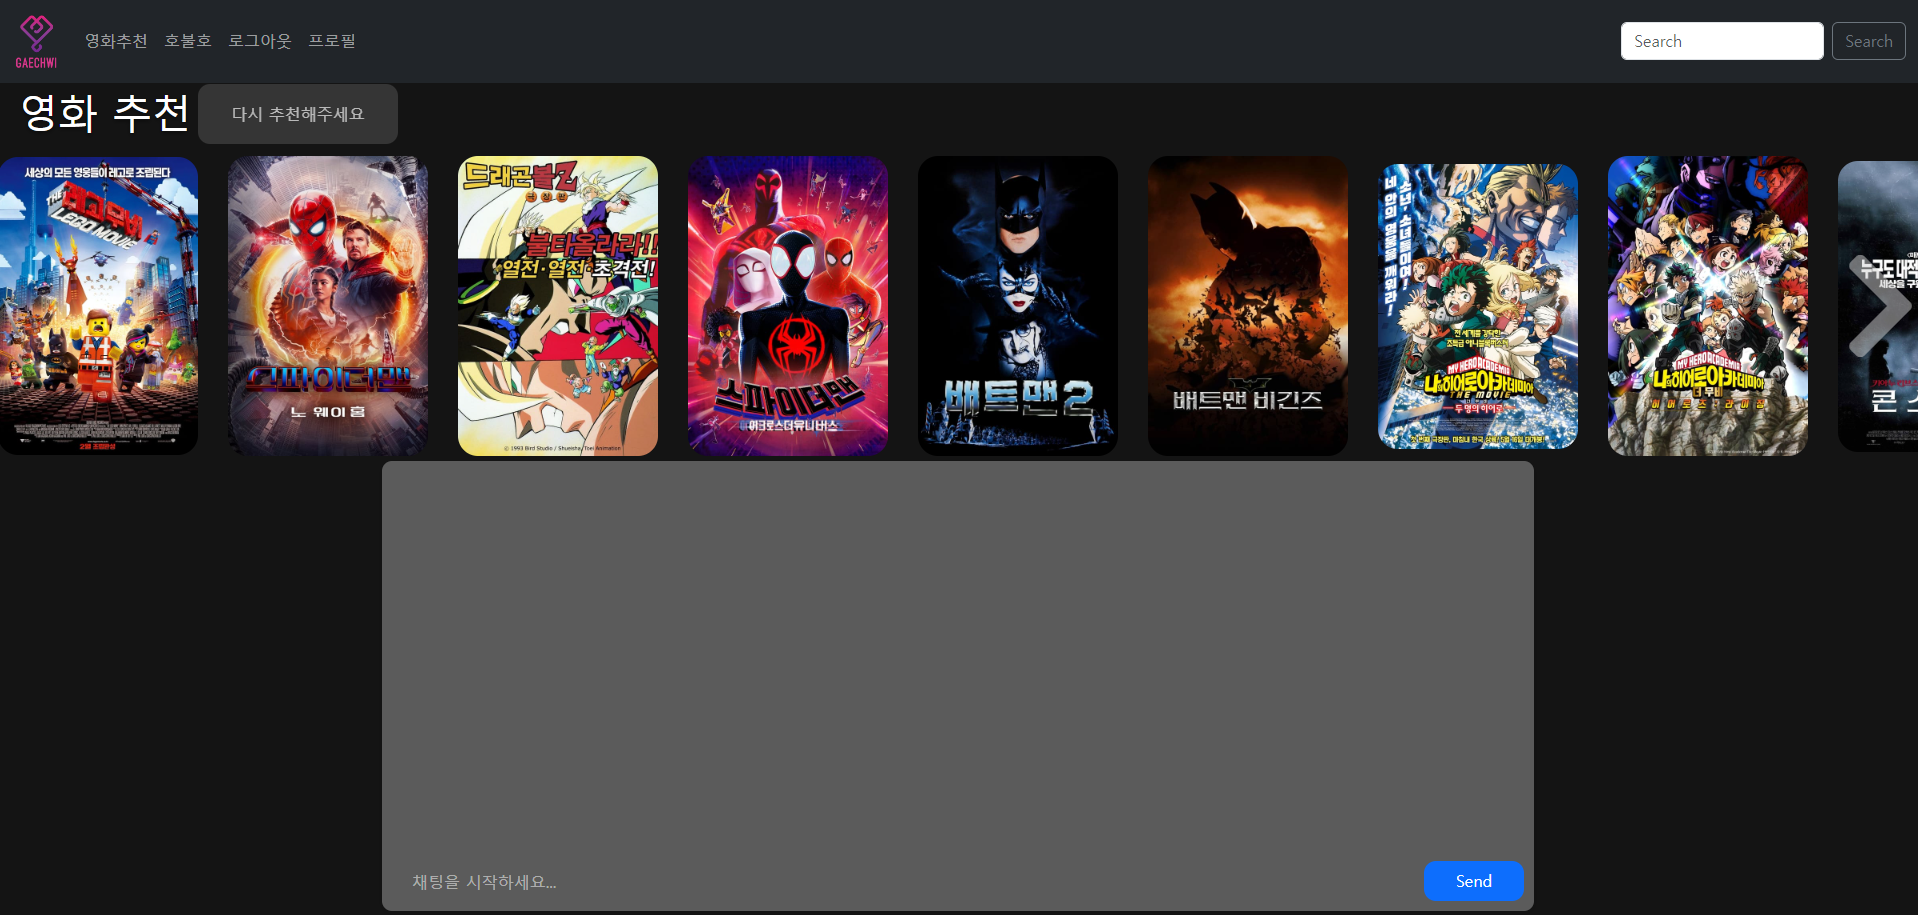
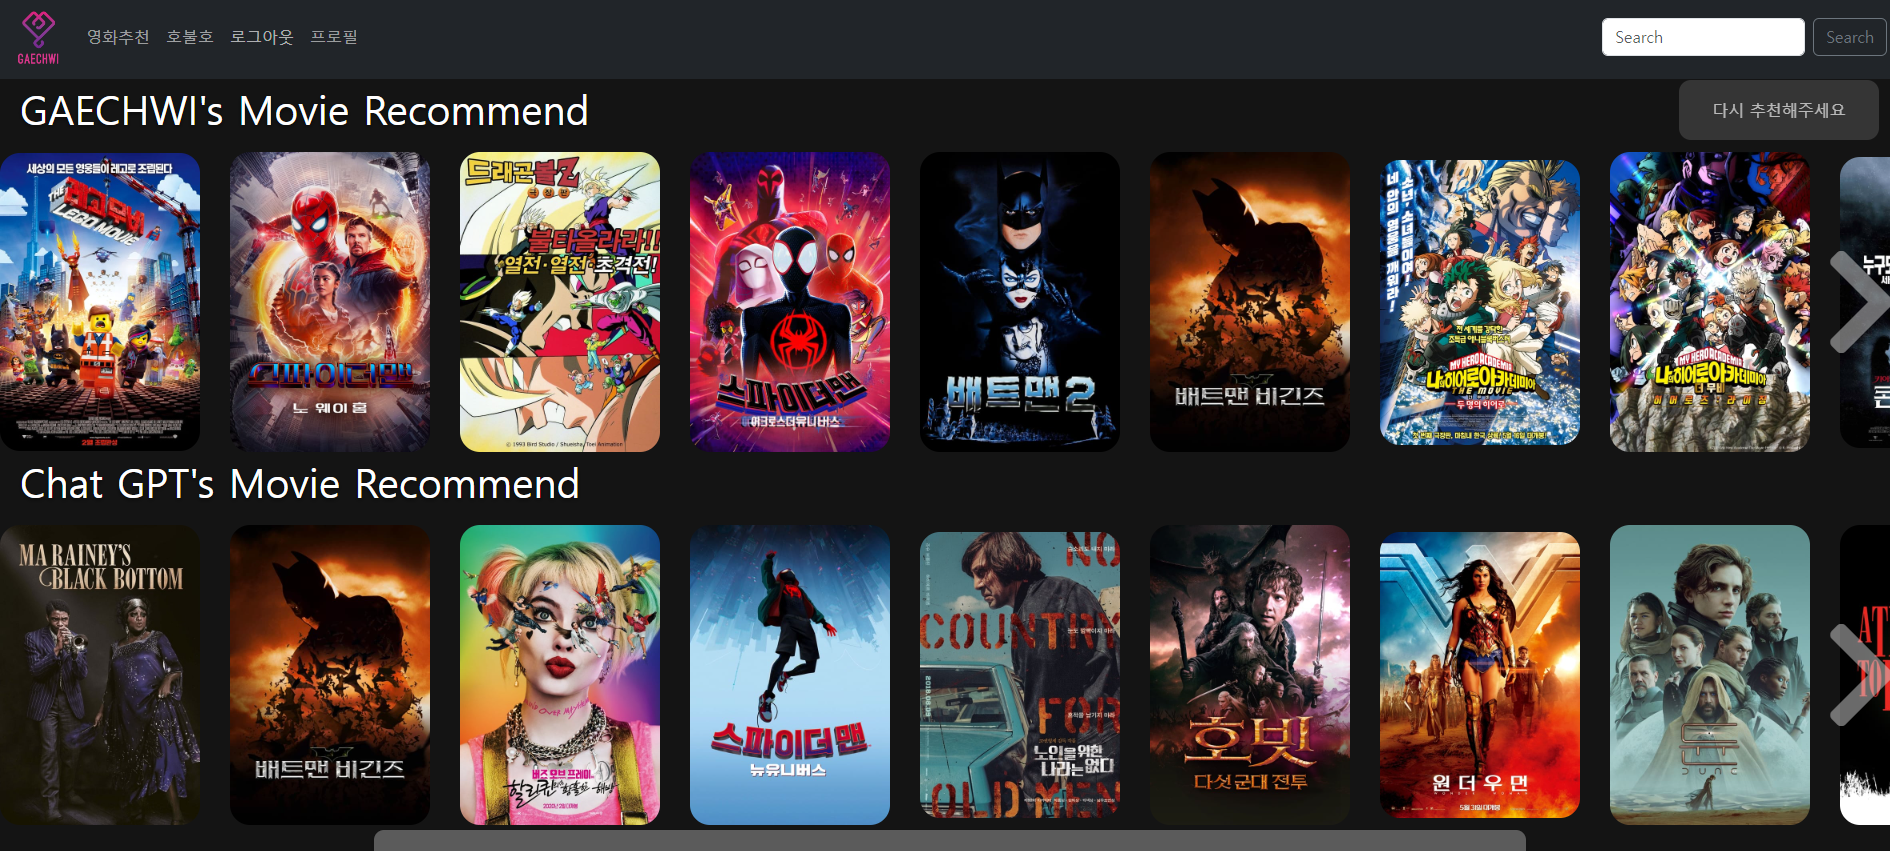
찐찐막

diff --git a/front/src/views/MovieRecommendView.vue b/front/src/views/MovieRecommendView.vue
@@ -1,6 +1,6 @@
 <template>
   <div class="title">
-    <h1>영화 추천</h1>
+    <h1>GAECHWI's Movie Recommend</h1>
   </div>
   <button class="nextpage">다시 추천해주세요</button>
   <div class="movie-container" v-if="movielist.length">
@@ -17,19 +17,19 @@
     </div>
   </div>
   <div class="title">
-    <h1>GPT가 추천해준 영화</h1>
+    <h1>Chat GPT's Movie Recommend</h1>
   </div>
-  <div class="movie-container" v-if="gptlist.length">
-    <div class="movie-list-wrapper">
-      <div class="movie-list">
+  <div class="gpt-movie-container" v-if="gptlist.length">
+    <div class="gpt-movie-list-wrapper">
+      <div class="gpt-movie-list">
         <gptcard
-          class="movie-item"
+          class="gmovie-item"
           v-for="movie in gptlist"
           :key="movie.id"
           :movie="movie"
         />
       </div>
-      <i class="fas fa-chevron-right arrow"></i>
+      <i class="fas fa-chevron-right gpt-arrow"></i>
     </div>
   </div>
   <div class="bubbleContainer">
@@ -39,18 +39,20 @@
           <div class="mychat" v-if="chat.my">{{ chat.my }}</div>
           <div class="gptchat" v-if="chat.gpt">{{ chat.gpt }}</div>
         </div>
-       
+      </div>
+      <div class="chat-input-container">
         <input 
           type="text" 
           v-model="inputchat" 
           name="formUsername" 
           placeholder="채팅을 시작하세요..."
           @keydown.enter="chat()">
+        <button class="btnSendMessage" type="submit" @click="chat()">Send</button>
       </div>
-      <button class="btnSendMessage" type="submit" @click="chat()">Send</button>
     </div>
   </div>
 </template>
+
 
 <script setup>
 import axios from 'axios'
@@ -67,11 +69,10 @@ const fetchData = async () => {
   try {
     const response = await axios.get(`http://127.0.0.1:8000/movies/${userid}/recommended/${pagepk}/`)
     movielist.value = response.data
-    console.log(response.data);
+    console.log(response.data)
     response.data.forEach(element => {
       chatmovielist.value.push(element.title)
-    });
-    // console.log(response.data);
+    })
   } catch (error) {
     console.error(error)
   }
@@ -88,14 +89,17 @@ onMounted(async () => {
     gptMovie()
   })
 
-  const arrows = document.querySelectorAll(".arrow")
-  const movieLists = document.querySelectorAll(".movie-list")
+  const arrows = document.querySelectorAll('.arrow')
+  const movieLists = document.querySelectorAll('.movie-list')
+
+  const gptarrows = document.querySelectorAll('.gpt-arrow')
+  const gptmovieLists = document.querySelectorAll('.gpt-movie-list')
 
   arrows.forEach((arrow, i) => {
-    const itemNumber = movieLists[i].querySelectorAll(".movie-item").length
+    const itemNumber = movieLists[i].querySelectorAll('.movie-item').length
     let clickCounter = 0
 
-    arrow.addEventListener("click", () => {
+    arrow.addEventListener('click', () => {
       const ratio = Math.floor(window.innerWidth / 270)
       clickCounter++
       const currentTransform = window.getComputedStyle(movieLists[i]).transform
@@ -105,11 +109,35 @@ onMounted(async () => {
       if (itemNumber - (4 + clickCounter) + (4 - ratio) >= 0) {
         movieLists[i].style.transform = `translateX(${translateX - 300}px)`
       } else {
-        movieLists[i].style.transform = "translateX(0)"
+        movieLists[i].style.transform = 'translateX(0)'
         clickCounter = 0
       }
     })
   })
+
+  if (gptarrows.length > 0 && gptmovieLists.length > 0) {
+    gptarrows.forEach((gptarrow, i) => {
+      if (gptmovieLists[i]) {
+        const itemNumber = gptmovieLists[i].querySelectorAll('.gmovie-item').length
+        let clickCounter = 0
+
+        gptarrow.addEventListener('click', () => {
+          const ratio = Math.floor(window.innerWidth / 270)
+          clickCounter++
+          const currentTransform = window.getComputedStyle(gptmovieLists[i]).transform
+          const matrix = currentTransform !== 'none' ? currentTransform : 'matrix(1, 0, 0, 1, 0, 0)'
+          const translateX = parseInt(matrix.split(',')[4].trim())
+
+          if (itemNumber - (4 + clickCounter) + (4 - ratio) >= 0) {
+            gptmovieLists[i].style.transform = `translateX(${translateX - 300}px)`
+          } else {
+            gptmovieLists[i].style.transform = 'translateX(0)'
+            clickCounter = 0
+          }
+        })
+      }
+    })
+  }
   await chatrecommend()
   await gptMovie()
 })
@@ -118,29 +146,27 @@ const inputchat = ref('')
 const chatlog = ref([])
 const chatrecommendlist = ref([])
 
-const chatrecommend = async function() {
+const chatrecommend = async function () {
   const api = 'https://api.openai.com/v1/chat/completions'
   const key = 'sk-proj-2y5MeZ5AwEShg3zqkkbET3BlbkFJMURTlOkcUQlACUtQ8OdU'
   
   try {
     const res = await axios.post(api, {
       model: 'gpt-4o',
-      messages: [{ role: 'user', content: `${chatmovielist.value}를 기반으로영화를 추천해 주는데${chatmovielist.value}영화는 빼고추천해줘 ''사이의 문자를 tmbd movie id로 바꿔줘 []만 보내줘 `}],
+      messages: [{ role: 'user', content: `${chatmovielist.value}를 기반으로 영화를 추천해 주는데 ${chatmovielist.value} 영화는 빼고 추천해줘 '사이의 문자를 tmbd movie id로 바꿔줘 []만 보내줘 ` }],
     }, {
       headers: { Authorization: `Bearer ${key}`, 'Content-Type': 'application/json' }
     })
-    // console.log(res.data.choices[0].message.content)
-    chatrecommendlist.value= res.data.choices[0].message.content.match(/\d+/g).map(Number);
-    console.log(chatrecommendlist);
+    chatrecommendlist.value = res.data.choices[0].message.content.match(/\d+/g).map(Number)
+    console.log(chatrecommendlist.value)
   } catch (err) {
-    chatlog.value.push({my: inputchat.value, gpt: '고장'})
+    chatlog.value.push({ my: inputchat.value, gpt: '고장' })
     console.error(err)
   }
-  
   inputchat.value = ''
 }
 
-const chat = async function() {
+const chat = async function () {
   const api = 'https://api.openai.com/v1/chat/completions'
   const key = 'sk-proj-2y5MeZ5AwEShg3zqkkbET3BlbkFJMURTlOkcUQlACUtQ8OdU'
   
@@ -151,46 +177,37 @@ const chat = async function() {
     }, {
       headers: { Authorization: `Bearer ${key}`, 'Content-Type': 'application/json' }
     })
-    console.log(res.data.choices[0].message.content)
-    chatlog.value.push({my: inputchat.value, gpt: res.data.choices[0].message.content})
+    chatlog.value.push({ my: inputchat.value, gpt: res.data.choices[0].message.content })
   } catch (err) {
-    chatlog.value.push({my: inputchat.value, gpt: '고장'})
+    chatlog.value.push({ my: inputchat.value, gpt: '고장' })
     console.error(err)
   }
-  
   inputchat.value = ''
 }
+
 const gptlist = ref([])
-const myid = "326ec925602b659f623ccfb9a46396e3"
+const myid = '326ec925602b659f623ccfb9a46396e3'
 
-const gptMovie= async()=>{
-  
-
- for (const movieid in chatrecommendlist.value){ 
-  console.log(chatrecommendlist.value[movieid]);
-  const options = {
+const gptMovie = async () => {
+  for (const movieid of chatrecommendlist.value) {
+    console.log(movieid)
+    const options = {
       method: 'GET',
-      url:`https://api.themoviedb.org/3/movie/${chatrecommendlist.value[movieid]}?${myid}&language=ko`,
-      params: {language: 'ko'},
+      url: `https://api.themoviedb.org/3/movie/${movieid}?api_key=${myid}`,
+      params: { language: 'ko-KR' },
       headers: {
         accept: 'application/json',
         Authorization: 'Bearer eyJhbGciOiJIUzI1NiJ9.eyJhdWQiOiIzMjZlYzkyNTYwMmI2NTlmNjIzY2NmYjlhNDYzOTZlMyIsInN1YiI6IjY2M2Q3ZDZjOTE0ZDU3Mzk3OGE0MTcwNSIsInNjb3BlcyI6WyJhcGlfcmVhZCJdLCJ2ZXJzaW9uIjoxfQ.FLkVpZ5-Oy3sFrFpCVurtGQ4vJ-WxnmJhBAzSp7VK-M'
       }
-    };
-  axios
-  .request(options)
-  .then((response) => {
-    gptlist.value.push(response.data)
-  })
-  .catch((error) => {
-    console.log(error)
-  })}
-   
-  
-  
+    }
+    try {
+      const response = await axios.request(options)
+      gptlist.value.push(response.data)
+    } catch (error) {
+      console.error(error)
+    }
+  }
 }
-
-
 </script>
 
 <style scoped>
@@ -203,6 +220,10 @@ const gptMovie= async()=>{
 
 img {
   width: 200px;
+}
+
+.movie-container {
+  margin-top: 20px;
 }
 
 .movie-list-wrapper {
@@ -228,12 +249,35 @@ img {
   cursor: pointer;
 }
 
-.movie-container {
+.gpt-movie-container {
   margin-top: 20px;
 }
 
+.gpt-movie-list-wrapper {
+  position: relative;
+  overflow: hidden;
+}
+
+.gpt-movie-list {
+  display: flex;
+  align-items: center;
+  height: 300px;
+  transform: translateX(0);
+  transition: all 1s ease-in-out;
+}
+
+.gpt-arrow {
+  font-size: 120px;
+  position: absolute;
+  top: 90px;
+  right: 0;
+  color: lightgray;
+  opacity: 0.5;
+  cursor: pointer;
+}
+
 .nextpage {
-  position: fixed;
+  position: absolute;
   width: 200px;
   height: 60px;
   margin-top: 80px;
@@ -242,9 +286,10 @@ img {
   border-radius: 12px;
   color: white !important;
   top: 5px;
-  left: 200px;
+  right: 20px;
   opacity: 70%;
 }
+
 .gpt {
   position: fixed;
   width: 200px;
@@ -258,6 +303,7 @@ img {
   left: 200px;
   opacity: 70%;
 }
+
 .bubbleContainer {
   position: relative;
   width: 60vw;
@@ -275,12 +321,15 @@ img {
   box-shadow: 0 2px 10px rgba(0, 0, 0, 0.1);
   padding: 20px;
   box-sizing: border-box;
-  overflow-y: auto;
+  display: flex;
+  flex-direction: column;
 }
 
 .chat {
+  flex: 1;
   display: flex;
   flex-direction: column;
+  overflow-y: auto;
 }
 
 .chat-message {
@@ -312,16 +361,21 @@ img {
   border-bottom-right-radius: 0;
 }
 
+.chat-input-container {
+  display: flex;
+  align-items: center;
+  margin-top: 10px;
+}
+
 input {
-  position: absolute;
-  bottom: 5px;
-  width: 75%;
+  flex: 1;
   height: 50px;
   border: none;
-  background-color: rgba(255, 255, 255, 0);
+  background-color: rgba(255, 255, 255, 0.1);
   color: white;
   padding: 10px;
   box-sizing: border-box;
+  border-radius: 10px;
 }
 
 input::placeholder {
@@ -329,15 +383,13 @@ input::placeholder {
 }
 
 .btnSendMessage {
-  position: absolute;
-  bottom: 10px;
-  right: 10px;
   width: 100px;
   height: 40px;
   background-color: #0d6efd;
   border: none;
   border-radius: 12px;
   color: white !important;
+  margin-left: 10px;
   cursor: pointer;
   transition: background-color 0.3s ease;
 }
@@ -345,4 +397,5 @@ input::placeholder {
 .btnSendMessage:hover {
   background-color: #084298;
 }
+
 </style>
